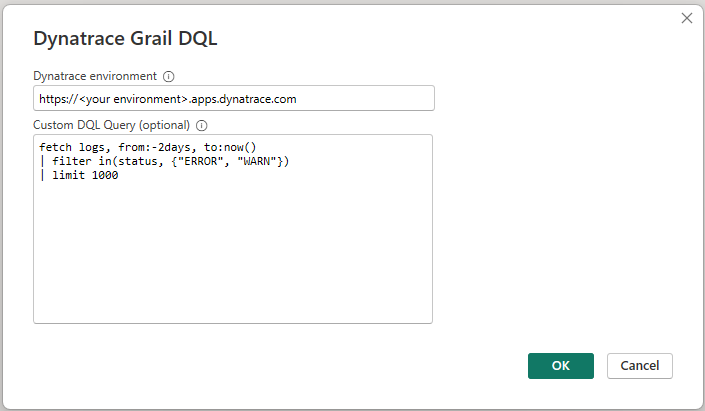
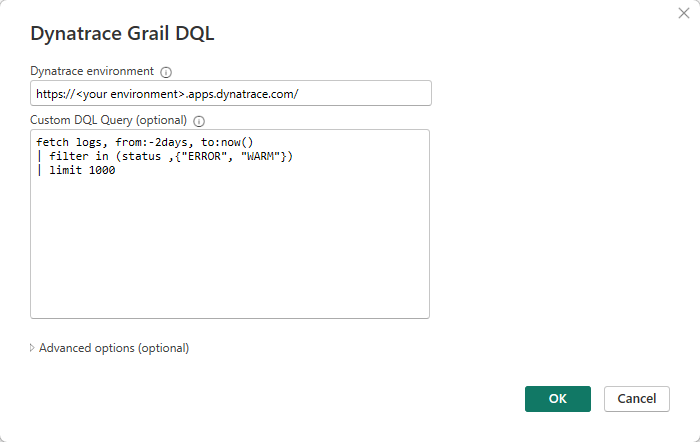
New version of the Dynatrace Grail DQL Connector (1.0.6)

Changed region(s): [[0.0, 0.0, 1.0, 1.0], [0.75, 0.8467, 0.96, 0.9343]]

diff --git a/powerquery-docs/connectors/dynatrace-grail-dql.md b/powerquery-docs/connectors/dynatrace-grail-dql.md
@@ -2,14 +2,11 @@
 title: Connect Power BI to Dynatrace Grail
 description: The connector allows users to access a Dynatrace environment on which they have the necessary permissions to run Dynatrace Query Language (DQL) queries.
 author: gordon-dt
-ms.date: 9/11/2025
+ms.date: 10/16/2025
 ms.author: dougklo
 ---
 
 # Dynatrace Grail (Beta)
-
->[!Note]
->This connector is owned and provided by Dynatrace.
 
 ## Summary
 
@@ -19,6 +16,9 @@ ms.author: dougklo
 |Products|                            Power BI (Semantic Models)<br/>Power BI (Dataflows)<br/>Fabric (Dataflow Gen2)|
 |Authentication Types Supported|      Windows (Power BI Desktop)<br/>Organizational account|
 |Function Reference Documentation|    Source|
+
+> [!NOTE]
+>The following connector article is provided by Dynatrace, the owner of this connector and a member of the Microsoft Power Query Connector Certification Program. If you have questions regarding the content of this article or have changes you would like to see made to this article, visit the Dynatrace website and use the support channels there.
 
 ## Prerequisites
 
@@ -32,6 +32,11 @@ Follow the instructions to set up a Dynatrace SaaS environment. Make sure the en
 
 - Import mode only
 - Option to enter a DQL query when connecting&mdash;limited to a maximum of 1 million rows
+- Advanced options
+  - Read data limit
+  - Record limit
+  - Result size limit
+  - Sampling
 
 ## Connection to Dynatrace Grail from Power BI Desktop
 
@@ -45,37 +50,86 @@ To connect to a Dynatrace SaaS instance from Power Query Desktop, take the follo
 
    :::image type="content" source="./media/dynatrace-grail-dql/connector3-white.png" alt-text="Screenshot of the environment entry dialog box for the Dynatrace tenant to connect to.":::
 
-3. Sign into your environment to authenticate your permissions.
+3. If you want to use any **advanced options**, select the option and enter the data to use with that option. More information: [Connect using advanced options](#connect-using-advanced-options)
+
+4. Sign into your environment to authenticate your permissions.
 
    :::image type="content" source="./media/dynatrace-grail-dql/connector4-white.png" alt-text="Screenshot of the Power Query authentication dialog when you sign in.":::
 
-4. A browser window pops up that requires you to enter your credentials.
+5. A browser window pops up that requires you to enter your credentials.
 
    :::image type="content" source="./media/dynatrace-grail-dql/connector5-white.png" alt-text="Screenshot of the Windows authenticated user account to select.":::
 
-5. Once you successfully authenticate, the message shows that you're currently signed in. Select **Connect**.
+6. Once you successfully authenticate, the message shows that you're currently signed in. Select **Connect**.
 
    :::image type="content" source="./media/dynatrace-grail-dql/connector6-white.png" alt-text="Screenshot of a successfully signed in dialog box.":::
 
-6. The Navigator screen shows the record types available to select from Dynatrace Grail.
+7. The Navigator screen shows the record types available to select from Dynatrace Grail.
 
    :::image type="content" source="./media/dynatrace-grail-dql/connector7-white.png" alt-text="Sample screenshot of record types available in Dynatrace Grail.":::
 
-7. Selecting one of them logs in this example, and runs a fetch logs DQL query with a default 1000 row limit. You require permissions on the Dynatrace environment in order to run this query successfully.
+8. Selecting one of them logs in this example, and runs a fetch logs DQL query with a default 1000 row limit. You require permissions on the Dynatrace environment in order to run this query successfully.
 
    :::image type="content" source="./media/dynatrace-grail-dql/connector8-white.png" alt-text="Sample screenshot of a resultant DQL log query from Dynatrace Grail." lightbox="./media/dynatrace-grail-dql/connector8-white.png":::
 
-8. The advanced editor shows the M code the connector is using.
+9. The advanced editor shows the M code the connector is using.
 
    :::image type="content" source="./media/dynatrace-grail-dql/connector9-white.png" alt-text="Screenshot of the connector in Power Query M code.":::
 
-9. An optional step when connecting is to type in a DQL query directly. The following example fetches logs (default last 2 hours) with a limit of 1,000 rows.
+10. An optional step when connecting is to type in a DQL query directly. The following example fetches logs (default last 2 hours) with a limit of 1,000 rows.
 
-   :::image type="content" source="./media/dynatrace-grail-dql/connector10-white.png" alt-text="Screenshot of a sample DQL query that can be used in the connector.":::
+    :::image type="content" source="./media/dynatrace-grail-dql/connector10-white.png" alt-text="Screenshot of a sample DQL query that can be used in the connector.":::
 
-10. The resulting import into Power BI looks similar to this example.
+11. The resulting import into Power BI looks similar to this example.
 
     :::image type="content" source="./media/dynatrace-grail-dql/connector11-white.png" alt-text="Screenshot of a sample set of Log rows imported into Power BI." lightbox="./media/dynatrace-grail-dql/connector11-white.png":::
+
+## Connect to Dynatrace Grail from Power Query Online
+
+To connect to Dynatrace Grail DQL from Power Query Online:
+
+1. Select the **Dynatrace Grail DQL** option in the get data experience. Different apps have different ways of getting to the Power Query Online get data experience. For more information, go to [Where to get data](../where-to-get-data.md).
+
+   :::image type="content" source="./media/dynatrace-grail-dql/connector12-white.png" alt-text="Screenshot of the Get Data dialog in Power Query Online to connect to Dynatrace Grail.":::
+
+2. Enter your Dynatrace environment. This environment needs to be the latest Dynatrace version with Grail enabled. The DQL query is optional at this point, but should be used for more complex queries outside of the default built in queries.
+
+   :::image type="content" source="./media/dynatrace-grail-dql/connector13-white.png" alt-text="Screenshot of the environment entry dialog box in Power Query Online for the Dynatrace tenant to connect to.":::
+
+3. If you want to use any **advanced options**, select the option and enter the data to use with that option. More information: [Connect using advanced options](#connect-using-advanced-options)
+
+4. Sign into your environment to authenticate your permissions. **Sign in** with an organizational account.
+
+5. After you've successfully signed in, select **Next**.
+
+6. The Navigator screen shows the record types available to select from Dynatrace Grail.
+
+   :::image type="content" source="./media/dynatrace-grail-dql/connector14-white.png" alt-text="Sample screenshot of record types available in Power Query Online in Dynatrace Grail.":::
+
+7. Selecting one of them logs in this example, and runs a fetch logs DQL query with a default 1000 row limit. You require permissions on the Dynatrace environment in order to run this query successfully.
+
+   :::image type="content" source="./media/dynatrace-grail-dql/connector15-white.png" alt-text="Sample screenshot of a resultant DQL log query from Dynatrace Grail in Power Query Online." lightbox="./media/dynatrace-grail-dql/connector15-white.png":::
+
+8. An optional step when connecting is to type in a DQL query directly. The following example fetches logs (default last 2 hours) with a limit of 50 rows.
+
+   :::image type="content" source="./media/dynatrace-grail-dql/connector16-white.png" alt-text="Screenshot of a sample DQL query that can be used in the connector in Power Query Online.":::
+
+9. The resulting import into Power BI looks similar to this example.
+
+   :::image type="content" source="./media/dynatrace-grail-dql/connector17-white.png" alt-text="Screenshot of a sample set of Log rows imported into Power Query Online." lightbox="./media/dynatrace-grail-dql/connector17-white.png":::
+
+### Connect using advanced options
+
+Both Power Query Desktop and Power Query Online provide a set of advanced options that you can add to your query if needed.
+
+The following table lists all of the advanced options you can set in Power Query Desktop and Power Query Online.
+
+| Advanced option       | Description                                                                    |
+|-----------------------|--------------------------------------------------------------------------------|
+| Read data limit       | Limit in gigabytes for the amount of data that will be scanned during read. Note: Increasing this limit can increase associated costs.                                                                           |
+| Record limit          | The maximum number of result records that this query will return. Note: Increasing the maximum can result in longer run times. |
+| Result size limit     | The maximum number of result bytes that this query will return. Note: Increasing the maximum can affect performance.                        |
+| Sampling              | Results in the selection of a subset of Log or Span records.                                                                         |
 
 ### Troubleshooting
 
@@ -85,3 +139,4 @@ To connect to a Dynatrace SaaS instance from Power Query Desktop, take the follo
 
   - Connect to the environment
   - Run DQL queries against the Dynatrace platform
+  
